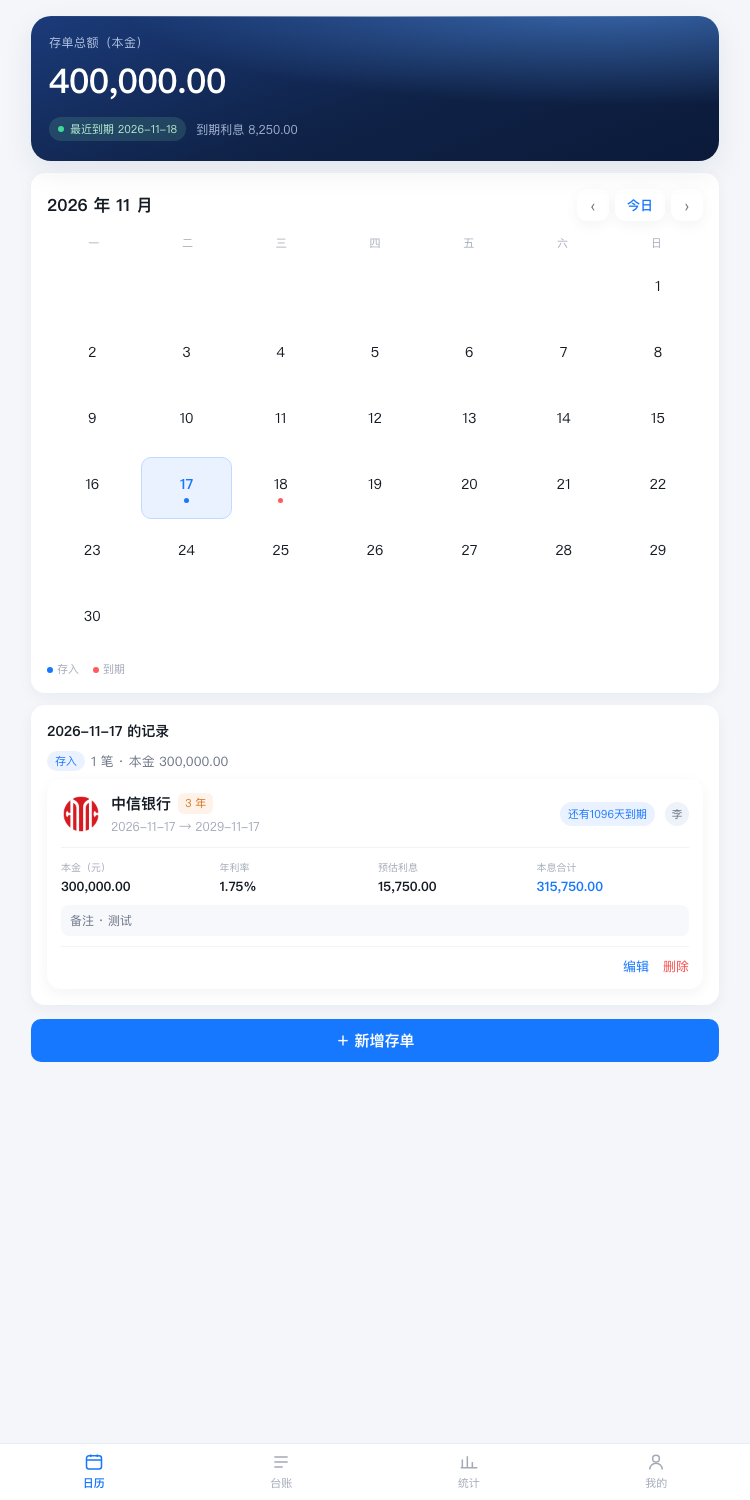
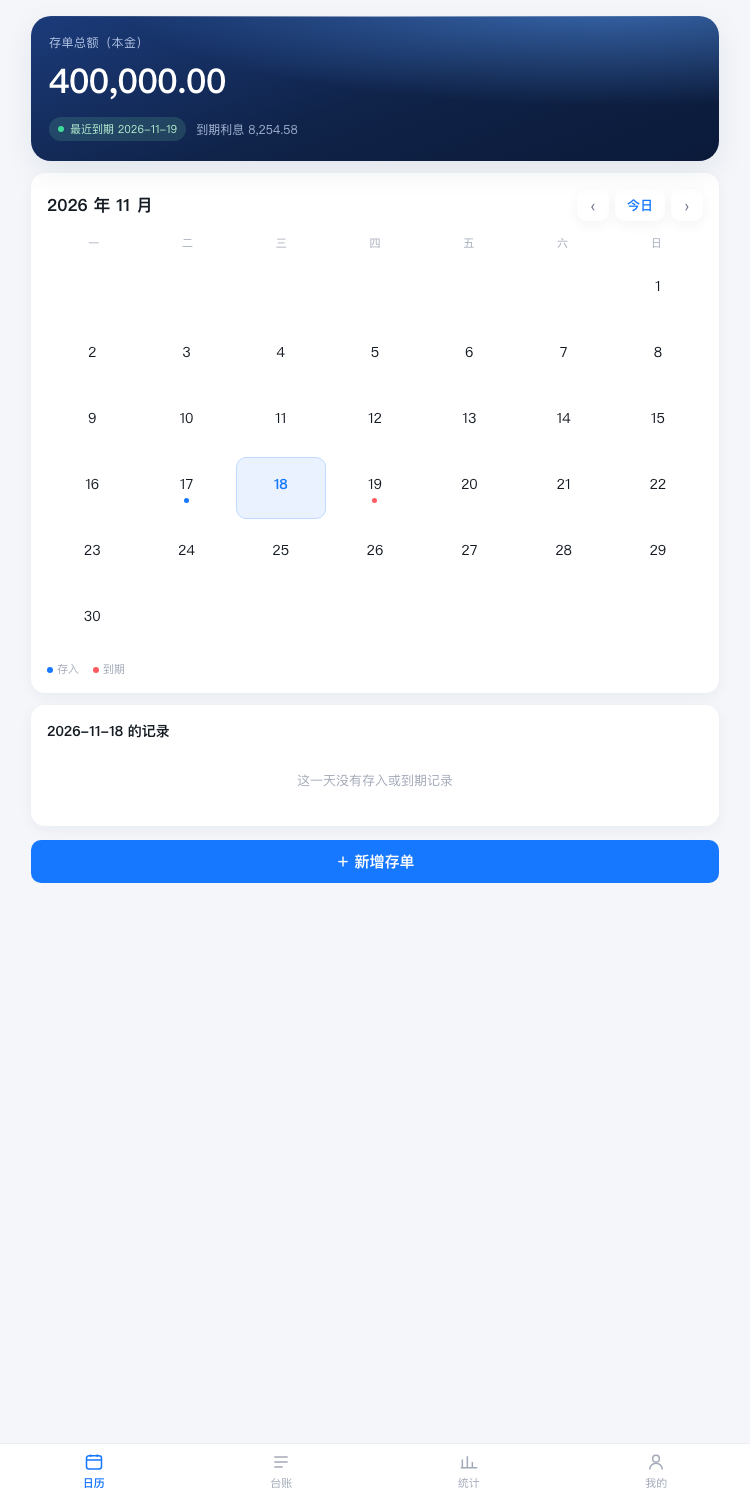
feat: 去掉所有头像显示，卡片/成员列表改用文字名字；修存期标签浮点误差

Changed region(s): [[0.0307, 0.46, 0.9813, 0.6133], [0.0307, 0.6747, 0.9813, 0.7053], [0.368, 0.3067, 0.3987, 0.3373]]

diff --git a/web/app.js b/web/app.js
@@ -246,7 +246,7 @@
     html += '<div class="dep-period">' + esc(d.saveDate) + ' → ' + esc(d.expireDate) + '</div>'
     html += '</div>'
     html += '<span class="status ' + esc(d.status) + '">' + esc(d.statusText) + '</span>'
-    if (d.creatorName) html += '<div class="avatar" title="' + esc(d.creatorName) + '">' + esc(d.creatorInitial) + '</div>'
+    if (d.creatorName) html += '<span class="who">' + esc(d.creatorName) + '</span>'
     html += '</div>'
 
     html += '<div class="metrics">'
@@ -569,7 +569,6 @@
   function renderMine() {
     $('meName').textContent = S.user.displayName
     $('meAccount').textContent = '账号 ' + S.user.username + (S.user.isOwner ? ' · 创建者' : '')
-    $('meAvatar').textContent = (S.user.displayName || '?').slice(0, 1)
 
     $('swRemind').classList.toggle('on', S.settings.remind_enabled === '1')
     $('swPrev').classList.toggle('on', S.settings.remind_prev_day === '1')
@@ -582,7 +581,6 @@
     $('memberList').innerHTML = S.members.map(m => {
       const isMe = m.id === S.user.id
       return '<div class="member-row">' +
-        '<div class="avatar" style="width:34px;height:34px;font-size:13px">' + esc(m.initial) + '</div>' +
         '<div style="flex:1">' +
         '<div class="nm">' + esc(m.displayName) +
         (m.isOwner ? ' <span class="tag owner">创建者</span>' : ' <span class="tag">成员</span>') +
@@ -759,7 +757,6 @@
     $('memberTitle').textContent = '选择添加人（' + ids.length + ' 笔）'
     $('memberPickList').innerHTML = S.members.map(m =>
       '<div class="member-row" data-pick="' + m.id + '" data-name="' + esc(m.displayName) + '" style="cursor:pointer">' +
-      '<div class="avatar" style="width:34px;height:34px;font-size:13px">' + esc(m.initial) + '</div>' +
       '<div style="flex:1"><div class="nm">' + esc(m.displayName) +
       (m.isOwner ? ' <span class="tag owner">创建者</span>' : ' <span class="tag">成员</span>') +
       '</div></div><span style="color:#c2c9d6">›</span></div>'

diff --git a/web/style.css b/web/style.css
@@ -241,10 +241,9 @@ input:focus, select:focus, textarea:focus { border-color: #c3daff; background: #
 .status.active { background: var(--primary-soft); color: var(--primary); }
 .status.today { background: var(--warn-soft); color: var(--warn); }
 .status.expired { background: var(--danger-soft); color: #ff5a5f; }
-.avatar {
-  width: 24px; height: 24px; border-radius: 50%; flex-shrink: 0;
-  display: inline-flex; align-items: center; justify-content: center;
-  font-size: 11px; background: #eef2f9; color: var(--ink-2);
+.who {
+  font-size: 11px; color: var(--ink-3); flex-shrink: 0; white-space: nowrap;
+  max-width: 64px; overflow: hidden; text-overflow: ellipsis;
 }
 
 .metrics { display: grid; grid-template-columns: repeat(4, 1fr); gap: 6px; margin-top: 12px; padding-top: 12px; border-top: 1px solid var(--line-soft); }
@@ -279,10 +278,6 @@ input:focus, select:focus, textarea:focus { border-color: #c3daff; background: #
 
 /* ---------- 我的 ---------- */
 .userbox { display: flex; align-items: center; gap: 12px; }
-.big-avatar {
-  width: 48px; height: 48px; border-radius: 50%; background: #eaf1ff; color: var(--primary);
-  display: flex; align-items: center; justify-content: center; font-size: 18px; font-weight: 700;
-}
 .set-row { display: flex; align-items: center; justify-content: space-between; gap: 10px; padding: 12px 0; border-bottom: 1px solid var(--line-soft); }
 .set-row:last-child { border-bottom: 0; }
 .set-row .t { font-size: 14px; }

diff --git a/server/calc.js b/server/calc.js
@@ -47,12 +47,20 @@ function termMonths(startStr, endStr) {
 }
 
 function termLabel(months) {
-  const m = Number(months) || 0
+  let m = Number(months) || 0
   if (!m) return ''
-  if (m < 12) return m + ' 个月'
+  // 存期按「整月 + 零头天数/30」算，会出现 60.0333 这种值，这里抹掉浮点误差
+  m = Math.round(m * 10) / 10
+  if (m < 12) {
+    const mm = Math.max(1, Math.round(m))
+    return mm + ' 个月'
+  }
   const y = Math.floor(m / 12)
-  const r = m % 12
-  return r === 0 ? y + ' 年' : y + ' 年 ' + r + ' 个月'
+  const r = Math.round((m - y * 12) * 10) / 10
+  if (r <= 0.4) return y + ' 年'
+  const rr = Math.round(r)
+  if (rr >= 12) return (y + 1) + ' 年'
+  return y + ' 年 ' + rr + ' 个月'
 }
 
 // 存期标签配色：按年期分档

diff --git a/web/index.html b/web/index.html
@@ -138,7 +138,6 @@
   <section id="page-mine" class="wrap" style="display:none">
     <div class="card">
       <div class="userbox">
-        <div class="big-avatar" id="meAvatar">?</div>
         <div style="flex:1">
           <div style="font-size:16px;font-weight:600" id="meName">—</div>
           <div class="muted" id="meAccount">—</div>
